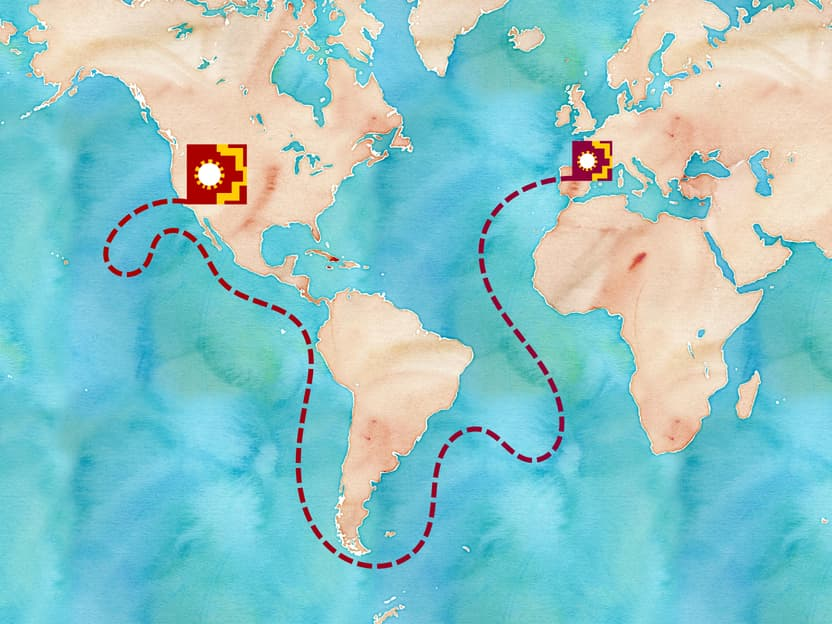
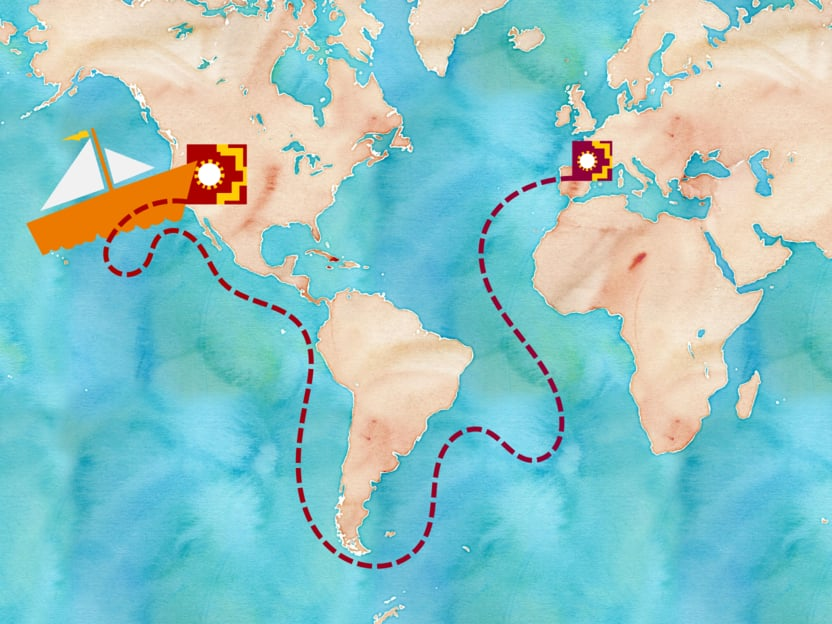
Added a boat to the map

Changed region(s): [[0.0312, 0.1827, 0.25, 0.4263]]

diff --git a/content/blog/putting-the-pieces-together/index.md b/content/blog/putting-the-pieces-together/index.md
@@ -24,8 +24,8 @@ has_media: true
   <meta property="schema:width" content="832 px" datatype="schema:Distance" />
   <meta property="schema:height" content="624 px" datatype="schema:Distance" />
   <meta property="schema:contentSize" content="63KB" />
-  <img property="schema:contentUrl" class="static" alt="A map of the world that depicts a journey by sea, starting near Madrid, Spain, then heading southward through the Atlantic Ocean to the Southern Ocean, around Cape Horn, and up the coast of South America, arriving finally at San Diego, California, with a few squiggly detours along the way" src="journey_of_defining_the_scholarly_commons.jpg" />
-  <figcaption property="schema:caption" class="small">A map of our journey so far of defining the Scholarly Commons, from Madrid, Spain, to San Diego, California. <span property="schema:hasPart" typeof="schema:ImageObject"><a property="schema:contentUrl" href="watercolor_world.jpeg">Map tiles</a> by <a property="cc:attributionName" rel="cc:attributionURL" href="http://stamen.com/">Stamen Design</a>, licensed under a <a rel="license" href="https://creativecommons.org/licenses/by/3.0/"><abbr title="Creative Commons Attribution 3.0 Unported">CC-BY</abbr></a> license. <span class="icon-cc"></span><span class="icon-cc-by"></span></span></figcaption>
+  <img property="schema:url" class="static" alt="A map of the world that depicts a journey by sea in a cartoon sailboat, starting near Madrid, Spain, then heading southward through the Atlantic Ocean to the Southern Ocean, around Cape Horn, and up the coast of South America, arriving finally at San Diego, California, with a few squiggly detours along the way" src="journey_of_defining_the_scholarly_commons.jpg" />
+  <figcaption property="schema:caption" class="small">A map of our journey so far of defining the Scholarly Commons, from Madrid, Spain, to San Diego, California. <span property="schema:hasPart" typeof="schema:ImageObject"><a property="schema:url" href="watercolor_world.jpeg">Map tiles</a> by <a property="cc:attributionName" rel="cc:attributionURL" href="http://stamen.com/">Stamen Design</a>, licensed under a <a rel="license" href="https://creativecommons.org/licenses/by/3.0/"><abbr title="Creative Commons Attribution 3.0 Unported">CC-BY</abbr></a> license. <span class="icon-cc"></span><span class="icon-cc-by"></span></span> <span property="schema:hasPart" typeof="schema:ImageObject">Sailboat based on <a property="schema:isBasedOn" href="https://openclipart.org/detail/259072/sailboat-refixed">work</a> by <a property="schema:creator" href="https://openclipart.org/user-detail/Lazur%20URH">Lazur URH</a>.</span></figcaption>
 </figure>
 
 Last week I had the opportunity to participate in the second workshop of the
